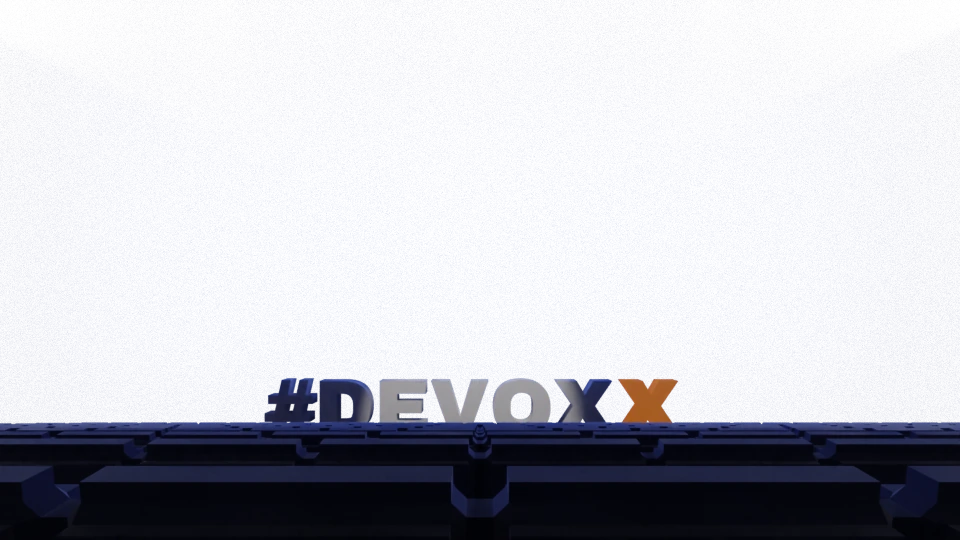
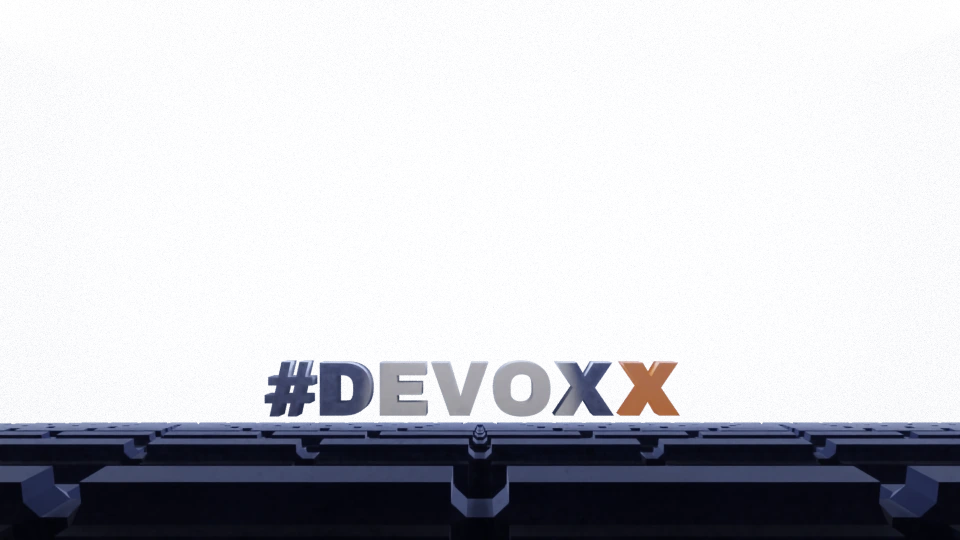
Cinema: review round 11; the UX harness and rubric now live in tools/ux
The screenshot harness and the reviewers' rubric (with the score history) move
into the repo, since a restart wiped the temp copies. Cinema screen glows the
panel's own navy and an unseen light does the spill; #DEVOXX on a low riser,
clear of the seats; the phone door shot shows the whole totem and its plate, laid
out 1:1; the floating text-only pill becomes a link at the foot of the programme;
crisp search focus; fades that hide partial chips; a bigger lone-talk title.

Changed region(s): [[0.0, 0.6519, 1.0, 0.9778]]

diff --git a/site/cinema/cinema.css b/site/cinema/cinema.css
@@ -43,10 +43,12 @@ button, input, a { font: inherit; color: inherit; }
   opacity: .5; mix-blend-mode: soft-light; }
 
 /* chrome outside the screens: small, quiet, fixed */
-.exit { position: fixed; z-index: 5; left: 12px; bottom: calc(10px + env(safe-area-inset-bottom, 0px)); background: rgba(5, 7, 20, .7); color: #D5DBF7;
-  border: 1px solid rgba(174, 184, 236, .28); border-radius: 999px; padding: 6px 12px; font-size: 14px; text-decoration: none; backdrop-filter: blur(6px); }
-.exit:hover { color: var(--ink); border-color: var(--muted); }
-.exit:focus-visible { outline: 3px solid #fff; outline-offset: 2px; }
+.noscript { position: fixed; inset: auto 16px 16px; color: var(--ink); font-size: 16px; }
+.textlink { flex: none; font-size: 15px; color: var(--muted); text-decoration: underline; text-underline-offset: 3px; }
+.textlink:hover { color: var(--ink); }
+.prog.is-tall .prog-head .textlink { display: none; }
+.prog.is-tall .prog-foot { display: flex; justify-content: flex-end; font-size: 13px; }
+.prog:not(.is-tall) .prog-foot { display: flex; justify-content: flex-end; margin-top: -8px; }
 .dock { position: fixed; z-index: 5; left: 50%; bottom: calc(16px + env(safe-area-inset-bottom, 0px)); translate: -50% 0; display: flex; gap: 8px; align-items: center; }
 .status, .skip { background: rgba(8, 11, 30, .78); border: 1px solid rgba(174, 184, 236, .35); border-radius: 999px; padding: 9px 15px; font-size: 14px; line-height: 1;
   color: var(--ink); backdrop-filter: blur(6px); }
@@ -60,9 +62,9 @@ button, input, a { font: inherit; color: inherit; }
 /* scroll strips and panes: fade the edge where there is more */
 .strip { position: relative; display: flex; gap: 8px; overflow-x: auto; scrollbar-width: none; padding: 9px; margin: -9px; }
 .strip::-webkit-scrollbar { display: none; }
-.strip.more-r { mask-image: linear-gradient(90deg, #000 85%, transparent); }
-.strip.more-l { mask-image: linear-gradient(90deg, transparent, #000 15%); }
-.strip.more-l.more-r { mask-image: linear-gradient(90deg, transparent, #000 12%, #000 88%, transparent); }
+.strip.more-r { mask-image: linear-gradient(90deg, #000 calc(100% - 64px), transparent calc(100% - 8px)); }
+.strip.more-l { mask-image: linear-gradient(90deg, transparent 8px, #000 64px); }
+.strip.more-l.more-r { mask-image: linear-gradient(90deg, transparent 8px, #000 64px, #000 calc(100% - 64px), transparent calc(100% - 8px)); }
 .scroller { overflow-y: auto; min-height: 0; scrollbar-width: thin; scrollbar-color: var(--line) transparent; }
 .scroller.more-b { mask-image: linear-gradient(180deg, #000 82%, transparent); }
 
@@ -75,7 +77,7 @@ button, input, a { font: inherit; color: inherit; }
 .brand small { font-weight: 500; font-stretch: 100%; font-size: 16px; color: var(--muted); letter-spacing: 0; }
 .search { margin-left: auto; width: 230px; min-width: 0; flex: 0 1 230px; background: var(--panel); border: 2px solid var(--line); border-radius: 10px; padding: 11px 15px; font-size: 18px; color: var(--ink); }
 .search::placeholder { color: #8f99d0; }
-.search:focus-visible { outline: none; border-color: var(--orange); }
+.face .search:focus-visible { outline: none; box-shadow: none; border-color: var(--orange); }
 .nav { display: flex; flex-direction: column; gap: 10px; }
 .prog-head .days { flex-wrap: nowrap; overflow: visible; padding: 0; margin: 0; gap: 6px; }
 .prog-head .days .pill { padding: 6px 10px; font-size: 18px; }
@@ -105,6 +107,7 @@ button, input, a { font: inherit; color: inherit; }
 .cards.is-packed > .card.is-now, .cards.is-packed > .card.is-now-wide { height: 176px; }
 .cards.is-packed > .card.is-now-wide { grid-column: 1 / -1; height: auto; min-height: 150px; }
 .cards.is-packed .card.is-now .title, .cards.is-packed .card.is-now-wide .title { -webkit-line-clamp: 3; }
+.cards.is-packed .card.is-now-wide .title { font-size: 26px; font-stretch: 110%; line-height: 1.12; }
 .card .why { font-size: 17px; line-height: 1.35; color: var(--muted); white-space: nowrap; overflow: hidden; text-overflow: ellipsis; flex: none; }
 .card .why b { font-weight: 700; }
 .prog:not(.is-tall) .cards.scroller[aria-label="Search results"] > .card { height: auto; min-height: 172px; }

diff --git a/site/cinema/cinema.js b/site/cinema/cinema.js
@@ -122,7 +122,14 @@ function place() {
 function mount(panel, key, overlayName) {
   if (face) face.el.remove();
   const [mw, mh] = shots[key].size[overlayName];
-  const w = canvasFor(key), h = Math.round(w * mh / mw);
+  // laptops: a fixed canvas, like a real display; phones: laid out 1:1 for the width the totem takes on this screen
+  let w = canvasFor(key);
+  if (key.includes("phone")) {
+    const { iw, ih, s } = fit(key);
+    const [tl, tr] = ordered(shots[key].overlay[overlayName]);
+    w = Math.max(280, Math.round(Math.hypot((tr[0] - tl[0]) * iw * s, (tr[1] - tl[1]) * ih * s)));
+  }
+  const h = Math.round(w * mh / mw);
   panel.style.width = `${w}px`;
   panel.style.height = `${h}px`;
   if (shots[key].clear_bottom > 0) panel.style.paddingBottom = `${Math.round(shots[key].clear_bottom * h)}px`;   // keep clear of the letters
@@ -263,7 +270,8 @@ function programme(tall) {
         el("small", { text: "Belgium 2026, summarised" })),
       tall ? null : dayRow,
       search),
-    nav, body);
+    nav, body,
+    el("div", { class: "prog-foot" }, el("a", { class: "textlink is-foot", href: "../", text: "Text version of every talk" })));
 
   function draw() {
     dayRow.textContent = ""; timeRow.textContent = ""; body.textContent = "";
@@ -347,7 +355,7 @@ function talkScreen(t, tall, onFloor, doorRoom = null) {
     main.textContent = "";
     put(main,
       el("div", { class: "meta", text: [doorRoom && tall ? null : (!onFloor && /^BOF/.test(t.room || "") ? `${t.room} (downstairs)` : t.room),
-        whenShort(t), typeLabel(t)].filter(Boolean).join(", ") }),
+        whenShort(t), typeLabel(t)].filter(Boolean).map((x) => x.replace(/ /g, "\u00a0")).join(", ") }),
       el("h2", { text: t.title, style: `--title:${onFloor ? titleSize(t.title, 40, 30) : titleSize(t.title, 34, 26)}px;--title-s:${titleSize(t.title, 23, 19)}px` }),
       el("div", { class: "who-l", text: speakers(t, true) }),
       s.watchIf ? el("p", { class: "verdict", text: `Worth it if ${s.watchIf.replace(/^\p{Lu}/u, (c) => c.toLowerCase()).replace(/\.$/, "")}.` }) : null,

diff --git a/site/cinema/index.html b/site/cinema/index.html
@@ -19,7 +19,7 @@
   <div class="overlay" id="overlay"></div>
   <img class="front" id="front" alt="" hidden>
 </main>
-<a class="exit" href="../">Text-only version</a>
+<noscript><p class="noscript">This page needs JavaScript. <a href="../">Read the text-only version of every talk</a>.</p></noscript>
 <div class="dock">
   <span class="status" id="status" role="status" hidden></span>
   <button class="skip" id="skip" type="button" hidden>Skip the walk</button>

diff --git a/scripts/blender/build_scene.py b/scripts/blender/build_scene.py
@@ -381,7 +381,7 @@ M = {
     "cove": emissive("cove", 0x8c9cff, 6.0),
     "panelLight": emissive("panelLight", 0xfff3e6, 8.0),       # the look of the panels; area lights below do the lighting      # about 4000 K, like the photos
     # the HTML is pinned over these in the browser: they glow the panels' navy, so their light on the room matches
-    "screen": emissive("screen", 0x22306a, 16.0),     # bright enough to light the letters and the front rows
+    "screen": emissive("screen", 0x1a265c, 1.6),      # the talk panel's own navy as seen through the camera; a light does the spill
     "masking": material("masking", 0x050507, 1.0, noise_bump=0.6),
     "programme": emissive("programme", 0x1d2c7a, 6.0),
     "schedule": emissive("schedule", 0x1c2a6b, 1.5),
@@ -854,7 +854,8 @@ for n, door in doors.items():
         y0w = min(d["bounds"]["y"] for d in blocks)
         y1w = max(d["bounds"]["y"] + d["bounds"]["h"] for d in blocks)
         xw = sum(d["bounds"]["x"] + d["bounds"]["w"] / 2 for d in blocks) / len(blocks)
-        floor_z = FH + plate_under(blocks[0])
+        floor_z = FH + plate_under(blocks[0]) + 0.45                 # on a low black stage riser, clear of the seat backs
+        B.box("masking", {"x": xw - 0.6, "y": y0w - 0.5, "w": 1.2, "h": y1w - y0w + 1.0}, floor_z - 0.45, floor_z)
         rot = (math.pi / 2, 0, math.pi / 2 if west else -math.pi / 2)
         parts = []
         for body, mat in (("#DEVOX", M["white"]), ("X", M["wordX"])):
@@ -1278,6 +1279,12 @@ if _room:
             so = bpy.data.objects.new(li.name, li)
             so.location = (hx, hy, hz)
             scene.collection.objects.link(so)
+    if args.room in screens:                                   # the projection's light on the room, from the screen (unseen)
+        scr_ = screens[args.room]
+        ob = area("screen-spill", (scr_["x"] + (0.25 if scr_["west"] else -0.25), scr_["y"], scr_["z"]), 1.0, 2600, (0.42, 0.52, 1.0),
+                  rot=(0, -math.pi / 2 if scr_["west"] else math.pi / 2, 0))     # facing into the room
+        ob.data.shape, ob.data.size, ob.data.size_y = "RECTANGLE", scr_["h"], scr_["w"]
+        ob.visible_camera = False
     for ((wx_, wy_, wz_), tw, rn) in word_lights:             # a front light on the wordmark, from the ceiling
         if rn == args.room:
             li = bpy.data.lights.new("word-light", "SPOT")
@@ -1563,11 +1570,11 @@ shots[f"seat-{n}"] = {"kind": "still", "overlay": {"screen": screen_quad(full, s
 # read in portrait); the red portal and the corridor are soft behind it
 tot = doors[n]["totem"]
 dface = doors[n]["face"]
-ddist = 2.0                                   # square on (text pinned flat never wobbles); its numeral plate on top
-_dh = 2 * math.atan(tot["w"] / 2 / 0.82 / ddist)
-door_cam = still_cam(f"cam-door-phone-{n}", (tot["x"] + dface * ddist, tot["y"], tot["z"] + 0.2), (tot["x"], tot["y"], tot["z"] + 0.2),
+ddist = 2.0                                   # square on (text pinned flat never wobbles); the whole totem and its plate in frame
+_dh = 2 * math.atan(tot["w"] / 2 / 0.74 / ddist)
+_dz = tot["z"] + 0.14                         # halfway between the screen's foot and the plate's top
+door_cam = still_cam(f"cam-door-phone-{n}", (tot["x"] + dface * ddist, tot["y"], _dz), (tot["x"], tot["y"], _dz),
                      2 * math.degrees(math.atan(math.tan(_dh / 2) * PHONE[1] / PHONE[0])), dof=(ddist, 2.8))
-door_cam.data.shift_y = 0.05                  # the numeral plate on top in view, less floor
 bpy.context.view_layer.update()
 set_res(PHONE)
 shots[f"door-phone-{n}"] = {"kind": "still", "overlay": {"screen": screen_quad(grow(tot["corners"]), door_cam)}, "size": {"screen": [tot["w"], tot["h"]]}}

diff --git a/tools/ux/RUBRIC.md b/tools/ux/RUBRIC.md
@@ -1,0 +1,70 @@
+# Devoxx cinema: UX and visual review rubric
+
+Used by the review agents that score the cinema page (`site/cinema/`) from screenshots taken by `shoot.mjs`.
+Each round, two fresh agents with no stake in the design review the same screenshots: a UX researcher (can people
+understand it, read it, get around) and an art director (does it look like real screens in a real room, is it
+beautiful and distinctive). The target is 9/10 from both, on laptop and on phone.
+
+## The site
+Every Devoxx Belgium 2026 session (205 talks, 5 days), summarised. The page is a photorealistic render of the
+Kinepolis venue where the conference happened. The programme is shown ON a screen in the venue's exhibition hall
+(laptop: a big screen on the curtained wall; phone: a portrait schedule totem). Choosing a talk walks you (a short
+pre-rendered video) to the room where it took place:
+- laptop: to a seat; the talk's summary is ON the cinema screen;
+- phone: to the room's door; the talk is on the portrait schedule totem beside the door's red portal, with the
+  room number on an orange plate on top (a 2.9:1 cinema screen is unreadable in portrait, so this is deliberate).
+The aesthetic is deliberate: diegetic, skeuomorphic photorealism (the UI lives on real screens in the room).
+Real photos of the venue and its signage this year: `data/references/img/` (contact sheets `_hollywood.jpg`,
+`_auditorium.jpg`).
+
+## Standing notes for reviewers
+- Walk videos may not be rendered yet; the jump from hall to seat is then a cut. Ignore that.
+- Room renders may be half-resolution, low-sample look-dev renders (soft, a little noisy); final renders are full
+  resolution and sharp. Judge the room on composition, light and believability, not sharpness.
+- Only rooms with a rendered walk have orange cards; other rooms' cards are navy for now and open the summary on
+  the hall screen. In the final site Rooms 3-10 are all orange. BOF rooms are downstairs and stay navy.
+- A fade at the edge of a list or strip is deliberate: it marks that it scrolls.
+
+## Screenshots (laptop 1440x900, laptop 1280x720, phone 390x844 at 2x)
+  1-hall          first view
+  2-other-slot    after choosing another start time
+  3-search        after typing "kotlin" in search
+  4-talk          after choosing a talk with a seat (summary on the cinema screen / door totem)
+  5-talk-tab      another tab of the talk
+  6-back          after "Back to the programme"
+  7-offfloor      a talk with no cinema seat (a BOF), shown on the hall screen
+  8-keyboard      after pressing Tab four times on load (focus visibility)
+  log.txt         console errors
+
+## Atomic checks (yes/no, laptop and phone separately)
+ C1  Within 3 seconds it's obvious what this is (Devoxx 2026 talks) and what to do (pick a talk).
+ C2  All text on the screens is comfortably readable at this viewport (body text at least ~14 css px equivalent).
+ C3  Day and time navigation is understandable and the current selection is obvious.
+ C4  Search is findable, results are clear, and each result shows when and where.
+ C5  On the talk view, title, speakers, room/time, summary and the way back are all obvious.
+ C6  Nothing is cut off, overlapping, or clipped by the viewport or the screen edges; no stray text.
+ C7  Interactive things look interactive; keyboard focus is visible.
+ C8  The UI reads as physically ON the screens in the room (perspective, scale, light), not as a sticker on top.
+ C9  The room around the screens is believable and supports, not distracts from, the content.
+ C10 Typography, colour and spacing are consistent and deliberate; it looks designed, not templated.
+ C11 The visual hierarchy guides the eye: the most important thing on each view is the most prominent.
+ C12 The language is plain and specific (sentence case, says what happens).
+
+## Output (under 500 words)
+- Laptop score /10 and phone score /10 (9 = I'd ship it; 10 = best-in-class).
+- The yes/no table for C1-C12 (laptop, phone).
+- The top issues blocking a 9, ranked by impact. For each: what's wrong (view, where), why it matters, and a
+  concrete fix. Be blunt; don't praise. Judge only what you see.
+
+## Scores so far
+| round | UX laptop | UX phone | art laptop | art phone | main change |
+|---|---|---|---|---|---|
+| 2 | 4 | 6 | 4 | 6 | first redesign |
+| 3 | 6 | 5 | 6 | 6 | fixed canvases, cut-out letters |
+| 4 | 7 | 6 | 7 | 5 | screen above the letters, letterbox |
+| 5 | 7 | 4 | 7 | 4 | phone talk on the door totem (cards collapsed: bug) |
+| 6 | 7 | 8 | 6 | 7 | door totem square on |
+| 7 | 7.5 | 5 | 7.5 | 5.5 | bigger hall text (phone search box bug) |
+| 8 | 8 | 8 | 8 | 7 | round-8 fixes |
+| 9 | 7.5 | 7 | 7.5 | 7 | sharp 2D pinning, numeral plate |
+| 10 | – | – | 7 | 7.5 | backlit plate, doorway |
